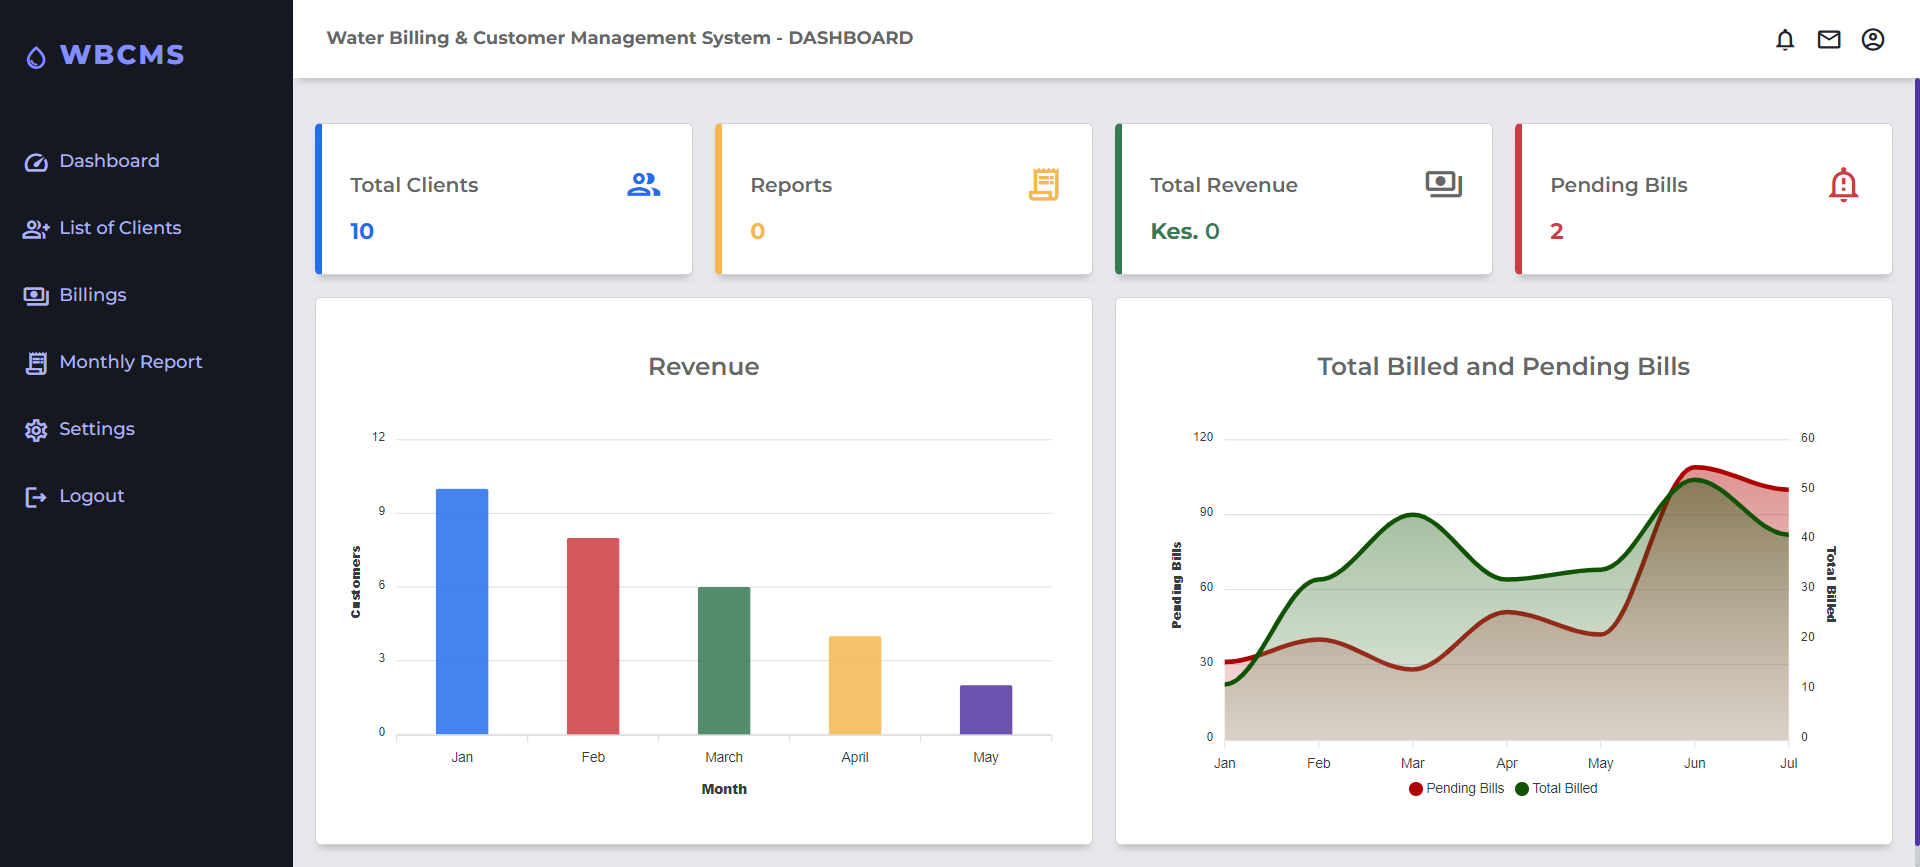
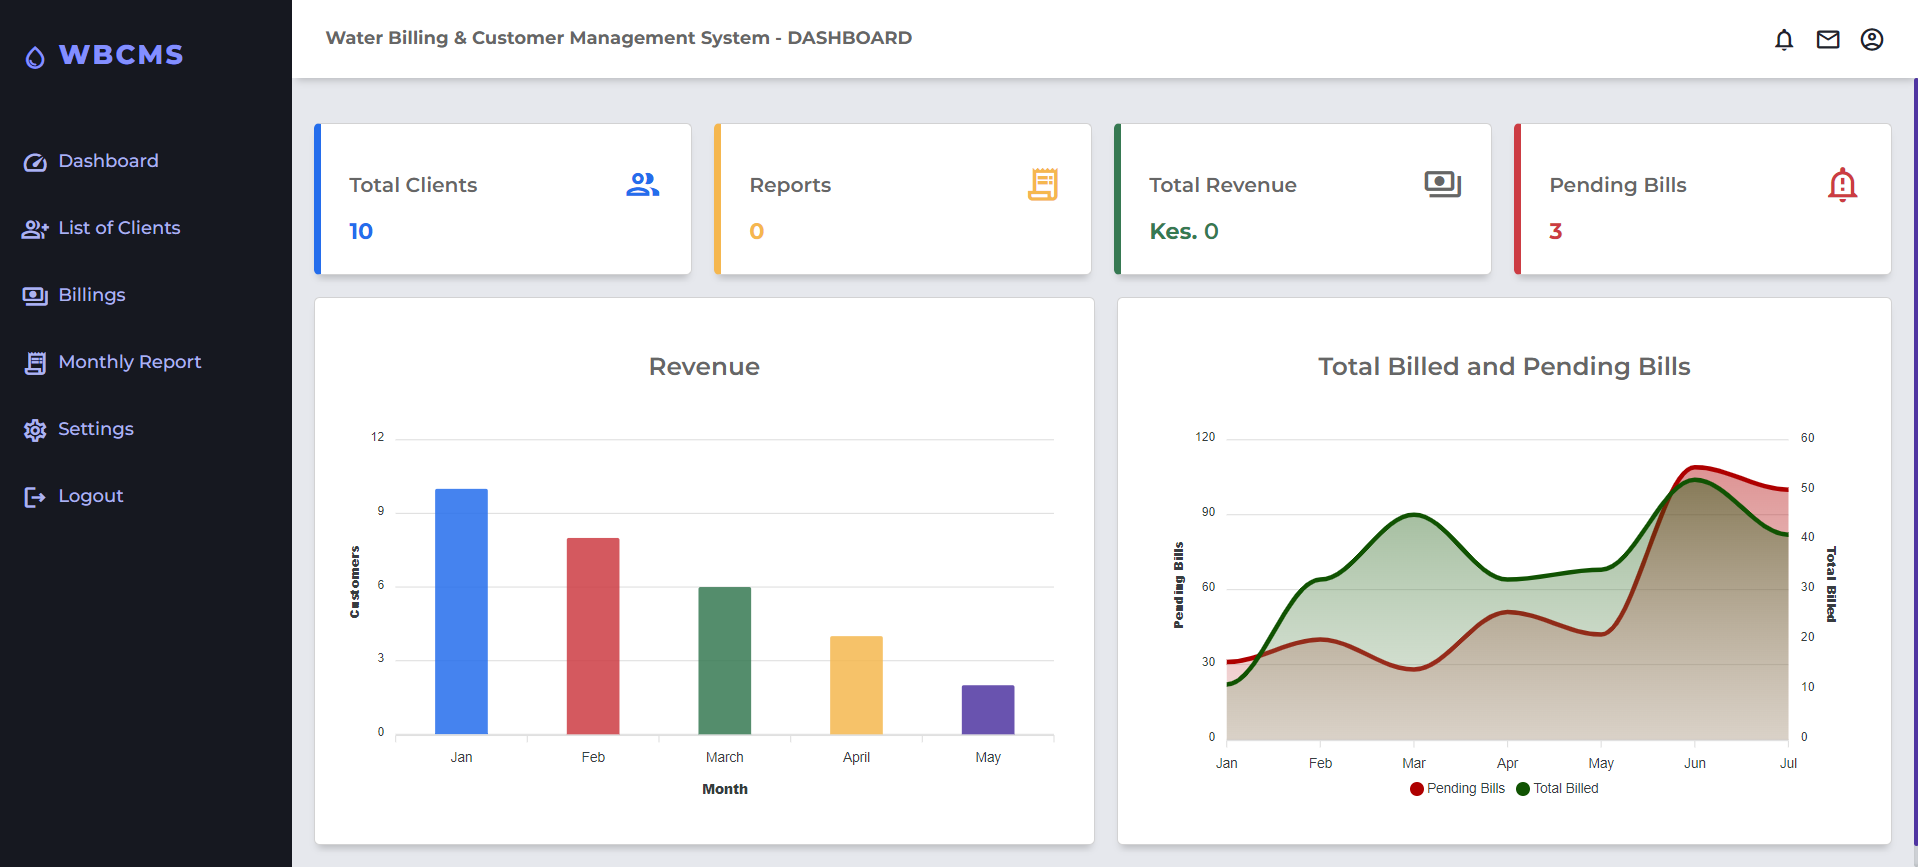
billing

diff --git a/dashboard.php b/dashboard.php
@@ -56,7 +56,7 @@
         <span class="material-icons-outlined text-red">notification_important</span>
       </div>
       <span class="text-red font-weight-bold">
-        <strong>0</strong>
+        <strong>3</strong>
       </span>
     </div>
 
